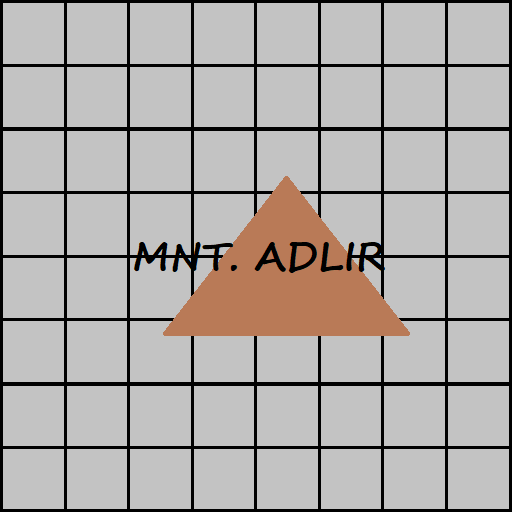
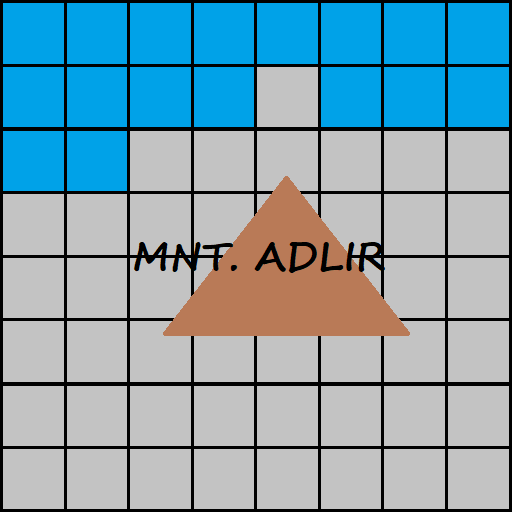
v3101231518

Changed region(s): [[0.0, 0.0, 1.0, 0.375]]

diff --git a/common.js b/common.js
@@ -7,74 +7,74 @@ var Loader = {
 };
 
 var map = {
-    cols: 35,
+    cols: 37,
     rows: 29,
     tsize: 512,
     csize: 256,
     csize_noscr: 100,
     layers: [[
-        //1              2                3                4                5                6                7                8                9                10                 11                 12                 13                 14                 15                 16                 17                 18                 19                 20                 21                 22                 23                 24                 25                26                27                     28                 29                 30			      31		      32				  33              34              35                                 
-        '0map',          '0map',          '0map',          '0map',          '0map',          '0map',          'm_murann_n',    '0map',          '0map',          '0map',            '0map',            '0map',            '0map',            '0map',            '0map',            '0map',            '0map',            '0map',            '0map',            '0map',            '0map',            '0map',            '0map',            '0map',            '0map',           '0map',           '0map',                '0map',            '0map',            '0map',            '0map',         '0map',             '0map',         '0map',         '0map',       
-        '0map',          '0map',          '0map',          '0map',          '0map',          '0map',          'm_murann_s',    'm_tethiroad1',  'm_tethiroad2',  'a_tethiroadw',    'a_trademeet',     '0map',            '0map',            '0map',            '0map',            '0map',            '0map',            '0map',            '0map',            '0map',            '0map',            '0map',            '0map',            '0map',            '0map',           '0map',           '0map',                '0map',            '0map',            '0map',            '0map',         '0map',             '0map',         '0map',         '0map',       
-        '0map',          '0map',          '0map',          '0map',          '0map',          '0wud',          '0wud',          '0map',          '0map',          '0map',            '0map',            '0map',            '0map',            '0map',            '0map',            '0map',            '0map',            '0map',            '0map',            '0map',            '0map',            '0map',            '0map',            '0map',            '0map',           '0map',           '0map',                '0map',            '0map',            '0map',            '0map',         '0map',             '0map',         '0map',         '0map',       
-        '0map',          '0map',          '0map',          '0map',          '0map',          '0wud',          '0wud',          '0wud',          '0wud',          '0wud',            '0wud',            '0wud',            '0wud',            '0wud',            '0map',            '0map',            '0map',            '0map',            '0map',            '0map',            '0map',            '0map',            '0map',            '0map',            '0map',           '0map',           '0map',                '0map',            '0map',            '0map',            '0map',         '0map',             '0map',         '0map',         '0map',       		
-        '0map',          '0map',          '0map',          '0map',          '0map',          't_toaketh',     't_viperstone',  't_rokorch',     '0wud',          '0wud',            '0wud',            '0wud',            '0wud',            '0wud',            '0wud',            '0wud',            '0map',            '0map',            '0map',            '0map',            '0map',            '0map',            '0map',            '0map',            '0map',           '0map',           '0map',                '0map',            '0map',            '0map',            '0map',         '0map',             '0map',         '0map',         '0map',       
-        '0map',          '0map',          '0map',          '0map',          '0map',          '0map',          '0map',          't_blktomb',     '0map',          '0wud',            't_trwaymos3',     '0wud',            '0wud',            '0wud',            '0wud',            '0wud',            '0wud',            't_brost',         '0map',            '0map',            '0map',            '0map',            '0map',            '0map',            '0map',           '0map',           '0map',                '0map',            '0map',            '0map',            't_trstone',    '0map',             '0map',         '0map',         '0map',       
-        '0map',          '0map',          '0map',          '0map',          '0map',          '0map',          '0map',          't_stdomin',     '0map',          '0map',            't_trwaymos2',     '0wud',            '0wud',            '0wud',            '0wud',            '0wud',            '0wud',            '0wud',            '0wud',            '0map',            '0map',            '0map',            '0map',            '0map',            '0map',           '0map',           '0map',                '0wud',            '0wud',            '0wud',            '0map',         '0map',             '0map',         '0map',         '0map',       
-        '0map',          '0map',          '0map',          '0map',          '0map',          '0map',          '0map',          't_fdrakerd2',   't_fdrakerd1',   't_mosstone',      't_trwaymos1',     '0wud',            '0wud',            '0wud',            't_mythrhynn',     '0wud',            '0wud',            '0wud',            '0wud',            '0wud',            '0wud',            '0map',            '0map',            '0wud',            '0wud',           '0wud',           '0wud',                '0wud',            't_eldgate',       '0wud',            '0map',         '0map',             '0map',         '0map',         '0map',       
-        '0map',          '0map',          '0map',          '0map',          '0map',          '0map',          't_trwaykir2',   't_kirgard',     't_trwaykir3',   't_trwaykir4',     't_archdrugro',    't_oldoakdel',     't_talltrees',     '0wud',            '0wud',            '0wud',            '0wud',            '0wud',            '0wud',            '0wud',            '0wud',            '0wud',            '0wud',            '0wud',            '0wud',           't_nebupool',     '0wud',                '0wud',            '0wud',            '0wud',            '0map',         '0map',             '0map',         '0map',         '0map',       
-        't_adlir',       '0mnt',          '0mnt',          '0mnt',          '0map',          't_portkir',     't_trwaykir1',   '0map',          '0map',          '0map',            '0wud',            '0wud',            '0wud',            '0wud',            '0wud',            '0wud',            '0wud',            '0wud',            '0wud',            '0wud',            '0wud',            '0wud',            '0wud',            '0wud',            '0wud',           't_suldaness',    '0wud',                '0wud',            '0wud',            '0wud',            '0wud',         '0map',             '0map',         '0map',         '0map',       
-        '0mnt',          '0mnt',          't_ramedar',     't_bormuln5',    '0mnt',          '0mnt',          't_trwayzaz3',   '0mnt',          't_grimjaws',    '0mnt',            '0mnt',            't_cayrthal',      '0wud',            't_kalmin',        '0wud',            't_hawkrook4',     '0mnt',            '0mnt',            '0wud',            '0wud',            '0wud',            '0wud',            '0mnt',            't_argentwing',    '0wud',           '0wud',           '0wud',                't_8tree',         '0wud',            't_moongld',       '0wud',         '0map',             '0map',         '0map',         '0map',       
-        '0map',          '0map',          't_bormuln4',    't_bormuln3',    't_battlesend',  '0mnt',          't_trwayzaz2',   '0mnt',          '0mnt',          '0mnt',            '0mnt',            't_memory',        '0mnt',            '0mnt',            '0mnt',            't_tresper',       '0mnt',            '0mnt',            '0mnt',            '0mnt',            '0mnt',            '0mnt',            '0mnt',            '0mnt',            't_targyll',      '0mnt',           '0wud',                '0wud',            '0wud',            '0wud',            '0map',         '0map',             '0map',         '0map',         '0map',       		
-        '0map',          '0map',          '0map',          '0map',          't_bormuln2',    't_bormuln1',    't_trwayzaz1',   '0map',          '0map',          '0map',            '0mnt',            '0mnt',            '0mnt',            '0mnt',            't_uluran',        't_hawkrook3',     '0mnt',            '0mnt',            '0mnt',            '0mnt',            '0mnt',            '0mnt',            '0mnt',            '0mnt',            '0mnt',           '0grs',           '0grs',                't_varyth_torf_w', 't_varyth_tor',    't_varyth_torf_e', '0map',         '0map',             '0map',         '0map',         '0map',       
-        '0map',          '0map',          '0map',          '0map',          '0map',          't_zazesspur_nw','t_zazesspur_ne','0map',          '0map',          '0map',            '0map',            '0map',            '0map',            '0map',            't_hawkrook2',     '0map',            '0mnt',            '0mnt',            '0mnt',            '0mnt',            '0map',            '0map',            '0map',            't_lhestyn_quay',  't_masamont_road','t_masamount',    't_masamount_wudn',    't_varyth_torf_sw','t_varyth_torf_s', 't_varyth_torf_se','0map',         '0map',             '0map',         '0map',         '0map',       
-        '0map',          '0map',          '0map',          '0map',          '0map',          't_zazesspur_sw','t_zazesspur_se','t_venezir_ne'  ,'t_marakir',     '0map',            '0map',            't_tethyrcast_nw', 't_tethyrcast_n',  't_tethyrcast_ne', 't_hawkrook1',     '0map',            'IthmonSulW',      't_hostim_quay',   't_ithmn_sul_e',   't_ithmn_sul_e1',  't_ithmn_sul_e2',  't_grannox',       't_grannox_farms', 't_lhestynheart',  't_freelm_farms', 't_freelmanse',   't_masamount_wuds',    't_varyth_plain_w','t_varyth_plain_c','t_varyth_plain_e','0IthalRoadWE', '0IthalRoadWES',    '0IthalRoadWE', '0IthalRoadWS', '0map',       
-        '0map',          '0map',          '0map',          '0map',          '0map',          't_venezir_sw',  't_venezir_s',   't_venezir_se'  ,'SulZaz3',       'SulZaz4',         'SulZaz5',         't_tethyrcast_w',  't_tethyrcast',    't_tethyrcast_e',  't_alemwood_nw',   't_alemwood_ne',   't_hostim_hill_nw','t_hostim',        't_hostim_wood',   't_ithmon_crag_nw','t_ithmon_crag_ne','t_lhest_gorge',   't_lhest_farm_sw', 't_lhest_farm_s',  't_lhest_farm_se','t_rivshrehill_n','t_rivshrehill_ne',    't_varyth_hill_nw','t_varyth_hill_n', 't_varyth_hill_ne','0map',         't_iltarghal',      '0map',         't_survale',    '0map',       
-        '0map',          '0map',          '0map',          '0map',          't_faithful',    't_hilltr1',     't_hilltr2',     't_vintor_okr_1','t_vintor_okr_2','t_vintor_okr_3',  't_bardshyr_okr',  't_tethyrcast_sw', 't_tethyrcast_s',  't_tethyrcast_se', 't_alemwood_sw',   't_bardshyr_alem', 't_hostim_hill_w', 't_hostim_road',   't_hostim_hill_e', 't_ithmon_crag_sw','t_ithmon_crag_se','t_qonsir',        't_qonsir_farm',   't_lhest_road',    't_rivshrehill_w','t_rivshrehill_c','t_st_ostus',          't_varyth_hill_sw','t_varyth_hill_s', 't_varyth_hill_se','0map',         '0map',             '0map',         '0IthalRoadNS', '0map',       
-        '0map',          '0map',          '0map',          '0map',          't_bormuls',     't_purhilla1',   't_canaith',     't_purhillb1',   't_purhillc1',   't_purhilld1',     't_sahark_crossrd','t_saharkhan',     't_bardshy_itr_1', 't_bardshy_itr_2', 't_bardshy_itr_3', 't_bardshy_itr_4', 't_ithmon_ithr_w1','t_ithmon_ithr_w2','t_ithmon_lorcros','t_ithmon_ithr_e1','t_ithmon_ithr_e2','t_rvrshr_ithrdw', 't_crownfarms_nw', 't_crownfarms_n',  't_crownfarms_ne','t_rivshrehill_s','t_rivshrehill_se',    '0map',            '0map',            't_thrynnar_hold', '0IthalRoadWE', '0IthalRoadWE',     '0IthalRoadWE', '0IthalRoadNWS','0map',       
-        '0map',          '0map',          '0map',          '0map',          't_ithalyr',     't_purhilla2',   't_hilltr3',     't_purhillb2',   't_purhillc2',   't_purhilld2',     't_soldieroad_1',  't_saharkhan_sp',  't_sevenstar_rd',  't_sevenstar_hne', 't_brinniqdell_n', 't_brinniqwood_n', 't_ithmon_pipe_n', 't_ithmon_farm_nw','t_ithmon_farm_n', 't_ithmon_farm_ne','t_loransewood_n', 't_crownfarms_iw2','t_crownfarms_iw1','t_darromar',      't_foyen_rd',     't_foyen',        '0map',                '0map',            '0map',            '0IthalRoadNS',    '0map',         '0map',             '0map',         '0IthalRoadEN', 't_veaddakar',       
-        '0map',          '0map',          '0map',          '0map',          't_purclif5',    't_purhilla3',   't_barrows',     't_samytew',     't_dasaajk',     't_samytee',       't_soldieroad_2',  't_jongrathroad11','t_sevenstar',     't_sevenstar_hse', 't_brinniqdell_s', 't_brinniqwood',   't_ithmon_pipe_s', 't_ithmon_farm_w', 't_ithmon_loranse','t_ithmon_farm_e', 't_loransewood_s', '0map',            't_clov_fld_nw',   't_clov_fld_itr_n','0map',           '0map',           '0map',                '0IthalRoadES',    '0IthalRoadWE',    '0IthalRoadWN',    '0map',         '0map',             '0map',         '0map',         '0map',       
-        '0map',          '0map',          '0map',          '0map',          't_rhynda',      't_rhynda_rd',   't_hilltr4',     't_purhillb3',   't_purhillc3',   't_purhilld3',     't_krennasar',     't_jongrathroad01','t_jongrathroad02','t_jongrath',      't_jongrathroad03','t_brinniqwood_s', 't_loranse_swamp', '0map',            '0map',            '0map',            '0map',            't_ruba',          '0IthalRoadWE',    't_clov_fld_itr_s','0IthalRoadWES',  '0IthalRoadWE',   '0IthalRoadWE',        '0IthalRoadNWS',   '0map',            '0map',            '0map',         '0map',             '0map',         '0map',         '0map',       
-        '0map',          '0map',          '0map',          '0map',          't_purclif4',    't_purhilla4',   't_vineshade',   't_purhillb4',   't_redmills',    't_elem_solroad01','t_elem_solroa002','t_elem_farm1',    't_elem_farm2',    't_elem_farm3',    't_elem_farm4',    't_riverith7',     't_riverith8',     '0map',            '0map',            '0map',            '0map',            '0IthalRoadNS',    '0map',            '0map',            't_abbor',        '0map',           '0map',                '0IthalRoadNES',   '0IthalRoadWE',    '0IthalRoadWE',    '0IthalRoadWE', '0IthalRoadWS',     '0map',         '0map',         '0map',       
-        '0map',          '0map',          '0map',          '0map',          't_purclif3',    't_purhilla5',   't_hilltr5',     't_purhillb5',   't_refields_n',  't_refields_ne',   't_riverith1',     't_riverith2',     't_riverith3',     't_riverith4',     't_riverith5',     't_riverith6',     '0map',            '0map',            '0map',            't_pelmarin',      '0IthalRoadWE',    '0IthalRoadWN',    '0map',            '0map',            '0map',           '0map',           '0map',                't_mistletoe',     '0map',            '0map',            '0map',         '0IthalRoadNES',    '0IthalRoadWE', '0IthalRoadWES','t_barakmordin',       
-        '0map',          '0map',          '0map',          '0map',          't_purclif2',    't_purclif1',    't_ith_est',     't_myratma_w',   't_myratma_e',   't_refields_e',    '0IthalRoadWE',    '0IthalRoadWE',    't_maratimmir',    '0IthalRoadWE',    '0IthalRoadWE',    '0IthalRoadWES',   '0IthalRoadWE',    '0IthalRoadWE',    '0IthalRoadWE',    '0IthalRoadWN',    '0map',            '0map',            '0map',            '0map',            '0map',           '0map',           '0map',                '0map',            '0map',            '0wud',            '0wud',         '0IthalRoadNS',     '0map',         '0IthalRoadNS', '0map',       
-        '0map',          '0map',          '0map',          '0map',          '0map',          '0map',          't_trwaycal3',   't_trwaycal2',   't_trwaycal1',   '0map',            '0map',            '0map',            '0map',            '0map',            '0map',            '0IthalRoadNS',    '0map',            '0map',            '0map',            '0map',            '0map',            '0map',            '0map',            '0map',            '0map',           '0map',           '0map',                '0map',            '0map',            '0wud',            't_magis_tor',  '0IthalRoadWN',     '0map',         '0IthalRoadNS', '0map',       
-        '0map',          '0map',          '0map',          '0map',          '0map',          '0map',          't_trwaycal4',   '0map',          '0map',          '0map',            '0map',            '0map',            '0map',            '0map',            '0map',            't_fort_teqlar',   't_shoonfedw',     't_shoonach_ilt',  't_shoonach_run',  't_shoonach_deb',  '0map',            '0map',            '0map',            '0map',            '0map',           '0map',           '0map',                '0map',            '0map',            '0wud',            '0wud',         '0wud',             '0map',         't_adarthir',   '0map',
-        '0map',          '0map',          '0map',          '0map',          '0map',          't_daraqadim',   't_trwaycal5',   '0map',          '0map',          '0map',            '0map',            '0map',            '0map',            '0map',            't_agisroad7',     't_shoonach_gaw',  't_shoonach_mum',  't_shoonach_imp',  't_shoonfede',     't_shoonach_gae',  '0map',            '0map',            '0map',            '0map',            '0map',           '0map',           '0map',                '0map',            '0map',            '0map',            '0map',         '0map',             '0map',         '0map',         '0map',
-        '0map',          '0map',          'c_memmonw',     'c_memmone',     't_memmonnar',   't_trwaycal6',   't_agisroad1',   't_agisroad2',   't_fortagis',    't_agisroad3',     't_agisroad4',     't_agisroad5',     't_iltakargarr',   't_agisroad6',     't_fortcalim',     'c_agisshoo1',     'c_agisshoo2',     't_shoonach_agi',  'c_agisshoo3',     'c_agisshoo4',     'c_agisshoo5',     '0map',            '0map',            '0map',            '0map',           '0map',           '0map',                '0map',            '0map',            '0map',            '0map',         '0map',             '0map',         '0map',         '0map',		
-        '0map',          '0map',          '0map',          '0map',          '0map',          '0map',          '0map',          '0map',          '0map',          '0map',            't_fortufenk',     '0map',            '0map',            '0map',            '0map',            '0map',            '0map',            '0map',            '0map',            '0map',            'c_agisshoo6',     't_qian',          '0map',            '0map',            '0map',           '0map',           '0map',                '0map',            '0map',            '0map',            '0map',         '0map',             '0map',         '0map',         '0map'                        
+        //1              2                3                4                5                6                7                8                9                10                 11               12                 13                 14                 15                 16                 17                 18                 19                 20                 21                 22                 23                 24                 25                 26                 27                28                29                     30			        31		           32				  33              34                  35              36              37
+        '0map',          '0map',          '0map',          '0map',          '0map',          '0map',          '0map',          '0map',          'm_murann_n',    '0map',            '0map',          '0map',            '0map',            '0map',            '0map',            '0map',            '0map',            '0map',            '0map',            '0map',            '0map',            '0map',            '0map',            '0map',            '0map',            '0map',            '0map',           '0map',           '0map',                '0map',            '0map',            '0map',            '0map',         '0map',             '0map',         '0map',         '0map',       
+        '0map',          '0map',          '0map',          '0map',          '0map',          '0map',          '0map',          '0map',          'm_murann_s',    'm_tethiroad1',    'm_tethiroad2',  'a_tethiroadw',    'a_trademeet',     '0map',            '0map',            '0map',            '0map',            '0map',            '0map',            '0map',            '0map',            '0map',            '0map',            '0map',            '0map',            '0map',            '0map',           '0map',           '0map',                '0map',            '0map',            '0map',            '0map',         '0map',             '0map',         '0map',         '0map',       
+        '0map',          '0map',          '0map',          '0map',          '0map',          '0map',          '0map',          '0wud',          '0wud',          '0map',            '0map',          '0map',            '0map',            '0map',            '0map',            '0map',            '0map',            '0map',            '0map',            '0map',            '0map',            '0map',            '0map',            '0map',            '0map',            '0map',            '0map',           '0map',           '0map',                '0map',            '0map',            '0map',            '0map',         '0map',             '0map',         '0map',         '0map',       
+        '0map',          '0map',          '0map',          '0map',          '0map',          '0map',          '0map',          '0wud',          '0wud',          '0wud',            '0wud',          '0wud',            '0wud',            '0wud',            '0wud',            '0wud',            '0map',            '0map',            '0map',            '0map',            '0map',            '0map',            '0map',            '0map',            '0map',            '0map',            '0map',           '0map',           '0map',                '0map',            '0map',            '0map',            '0map',         '0map',             '0map',         '0map',         '0map',       		
+        '0map',          '0map',          '0map',          '0map',          '0map',          '0map',          '0map',          't_toaketh',     't_viperstone',  't_rokorch',       '0wud',          '0wud',            '0wud',            '0wud',            '0wud',            '0wud',            '0wud',            '0wud',            '0map',            '0map',            '0map',            '0map',            '0map',            '0map',            '0map',            '0map',            '0map',           '0map',           '0map',                '0map',            '0map',            '0map',            '0map',         '0map',             '0map',         '0map',         '0map',       
+        '0map',          '0map',          '0map',          '0map',          '0map',          '0map',          '0map',          '0map',          '0map',          't_blktomb',       '0map',          '0wud',            't_trwaymos3',     '0wud',            '0wud',            '0wud',            '0wud',            '0wud',            '0wud',            't_brost',         '0map',            '0map',            '0map',            '0map',            '0map',            '0map',            '0map',           '0map',           '0map',                '0map',            '0map',            '0map',            't_trstone',    '0map',             '0map',         '0map',         '0map',       
+        '0map',          '0map',          '0map',          '0map',          '0map',          '0map',          '0map',          '0map',          '0map',          't_stdomin',       '0map',          '0map',            't_trwaymos2',     '0wud',            '0wud',            '0wud',            '0wud',            '0wud',            '0wud',            '0wud',            '0wud',            '0map',            '0map',            '0map',            '0map',            '0map',            '0map',           '0map',           '0map',                '0wud',            '0wud',            '0wud',            '0map',         '0map',             '0map',         '0map',         '0map',       
+        '0map',          '0map',          '0map',          '0map',          '0map',          '0map',          '0map',          '0map',          '0map',          't_fdrakerd2',     't_fdrakerd1',   't_mosstone',      't_trwaymos1',     '0wud',            '0wud',            '0wud',            't_mythrhynn',     '0wud',            '0wud',            '0wud',            '0wud',            '0wud',            '0wud',            '0map',            '0map',            '0wud',            '0wud',           '0wud',           '0wud',                '0wud',            't_eldgate',       '0wud',            '0map',         '0map',             '0map',         '0map',         '0map',       
+        '0map',          '0map',          '0map',          '0map',          '0map',          '0map',          '0map',          '0map',          't_trwaykir2',   't_kirgard',       't_trwaykir3',   't_trwaykir4',     't_archdrugro',    't_oldoakdel',     't_talltrees',     '0wud',            '0wud',            '0wud',            '0wud',            '0wud',            '0wud',            '0wud',            '0wud',            '0wud',            '0wud',            '0wud',            '0wud',           't_nebupool',     '0wud',                '0wud',            '0wud',            '0wud',            '0map',         '0map',             '0map',         '0map',         '0map',       
+        't_stspmntn1',   't_stspmntn2',   't_adlir',       't_stspmntn3',   't_stspmntn4',   't_stspmntn5',   't_stspmntn6',   't_portkir',     't_trwaykir1',   '0map',            '0map',          '0map',            '0wud',            '0wud',            '0wud',            '0wud',            '0wud',            '0wud',            '0wud',            '0wud',            '0wud',            '0wud',            '0wud',            '0wud',            '0wud',            '0wud',            '0wud',           't_suldaness',    '0wud',                '0wud',            '0wud',            '0wud',            '0wud',         '0map',             '0map',         '0map',         '0map',       
+        't_stspmnts1',   't_stspmnts2',   't_stspmnts3',   't_stspmnts4',   't_ramedar',     't_bormuln5',    '0mnt',          '0mnt',          't_trwayzaz3',   '0mnt',            't_grimjaws',    '0mnt',            '0mnt',            't_cayrthal',      '0wud',            't_kalmin',        '0wud',            't_hawkrook4',     '0mnt',            '0mnt',            '0wud',            '0wud',            '0wud',            '0wud',            '0mnt',            't_argentwing',    '0wud',           '0wud',           '0wud',                't_8tree',         '0wud',            't_moongld',       '0wud',         '0map',             '0map',         '0map',         '0map',       
+        '0map',          '0map',          '0map',          '0map',          't_bormuln4',    't_bormuln3',    't_battlesend',  '0mnt',          't_trwayzaz2',   '0mnt',            '0mnt',          '0mnt',            '0mnt',            't_memory',        '0mnt',            '0mnt',            '0mnt',            't_tresper',       '0mnt',            '0mnt',            '0mnt',            '0mnt',            '0mnt',            '0mnt',            '0mnt',            '0mnt',            't_targyll',      '0mnt',           '0wud',                '0wud',            '0wud',            '0wud',            '0map',         '0map',             '0map',         '0map',         '0map',       		
+        '0map',          '0map',          '0map',          '0map',          '0map',          '0map',          't_bormuln2',    't_bormuln1',    't_trwayzaz1',   '0map',            '0map',          '0map',            '0mnt',            '0mnt',            '0mnt',            '0mnt',            't_uluran',        't_hawkrook3',     '0mnt',            '0mnt',            '0mnt',            '0mnt',            '0mnt',            '0mnt',            '0mnt',            '0mnt',            '0mnt',           '0grs',           '0grs',                't_varyth_torf_w', 't_varyth_tor',    't_varyth_torf_e', '0map',         '0map',             '0map',         '0map',         '0map',       
+        '0map',          '0map',          '0map',          '0map',          '0map',          '0map',          '0map',          't_zazesspur_nw','t_zazesspur_ne','0map',            '0map',          '0map',            '0map',            '0map',            '0map',            '0map',            't_hawkrook2',     '0map',            '0mnt',            '0mnt',            '0mnt',            '0mnt',            '0map',            '0map',            '0map',            't_lhestyn_quay',  't_masamont_road','t_masamount',    't_masamount_wudn',    't_varyth_torf_sw','t_varyth_torf_s', 't_varyth_torf_se','0map',         '0map',             '0map',         '0map',         '0map',       
+        '0map',          '0map',          '0map',          '0map',          '0map',          '0map',          '0map',          't_zazesspur_sw','t_zazesspur_se','t_venezir_ne'  ,  't_marakir',     '0map',            '0map',            't_tethyrcast_nw', 't_tethyrcast_n',  't_tethyrcast_ne', 't_hawkrook1',     '0map',            'IthmonSulW',      't_hostim_quay',   't_ithmn_sul_e',   't_ithmn_sul_e1',  't_ithmn_sul_e2',  't_grannox',       't_grannox_farms', 't_lhestynheart',  't_freelm_farms', 't_freelmanse',   't_masamount_wuds',    't_varyth_plain_w','t_varyth_plain_c','t_varyth_plain_e','0IthalRoadWE', '0IthalRoadWES',    '0IthalRoadWE', '0IthalRoadWS', '0map',       
+        '0map',          '0map',          '0map',          '0map',          '0map',          '0map',          '0map',          't_venezir_sw',  't_venezir_s',   't_venezir_se'  ,  'SulZaz3',       'SulZaz4',         'SulZaz5',         't_tethyrcast_w',  't_tethyrcast',    't_tethyrcast_e',  't_alemwood_nw',   't_alemwood_ne',   't_hostim_hill_nw','t_hostim',        't_hostim_wood',   't_ithmon_crag_nw','t_ithmon_crag_ne','t_lhest_gorge',   't_lhest_farm_sw', 't_lhest_farm_s',  't_lhest_farm_se','t_rivshrehill_n','t_rivshrehill_ne',    't_varyth_hill_nw','t_varyth_hill_n', 't_varyth_hill_ne','0map',         't_iltarghal',      '0map',         't_survale',    '0map',       
+        '0map',          '0map',          '0map',          '0map',          '0map',          '0map',          't_faithful',    't_hilltr1',     't_hilltr2',     't_vintor_okr_1',  't_vintor_okr_2','t_vintor_okr_3',  't_bardshyr_okr',  't_tethyrcast_sw', 't_tethyrcast_s',  't_tethyrcast_se', 't_alemwood_sw',   't_bardshyr_alem', 't_hostim_hill_w', 't_hostim_road',   't_hostim_hill_e', 't_ithmon_crag_sw','t_ithmon_crag_se','t_qonsir',        't_qonsir_farm',   't_lhest_road',    't_rivshrehill_w','t_rivshrehill_c','t_st_ostus',          't_varyth_hill_sw','t_varyth_hill_s', 't_varyth_hill_se','0map',         '0map',             '0map',         '0IthalRoadNS', '0map',       
+        '0map',          '0map',          '0map',          '0map',          '0map',          '0map',          't_bormuls',     't_purhilla1',   't_canaith',     't_purhillb1',     't_purhillc1',   't_purhilld1',     't_sahark_crossrd','t_saharkhan',     't_bardshy_itr_1', 't_bardshy_itr_2', 't_bardshy_itr_3', 't_bardshy_itr_4', 't_ithmon_ithr_w1','t_ithmon_ithr_w2','t_ithmon_lorcros','t_ithmon_ithr_e1','t_ithmon_ithr_e2','t_rvrshr_ithrdw', 't_crownfarms_nw', 't_crownfarms_n',  't_crownfarms_ne','t_rivshrehill_s','t_rivshrehill_se',    '0map',            '0map',            't_thrynnar_hold', '0IthalRoadWE', '0IthalRoadWE',     '0IthalRoadWE', '0IthalRoadNWS','0map',       
+        '0map',          '0map',          '0map',          '0map',          '0map',          '0map',          't_ithalyr',     't_purhilla2',   't_hilltr3',     't_purhillb2',     't_purhillc2',   't_purhilld2',     't_soldieroad_1',  't_saharkhan_sp',  't_sevenstar_rd',  't_sevenstar_hne', 't_brinniqdell_n', 't_brinniqwood_n', 't_ithmon_pipe_n', 't_ithmon_farm_nw','t_ithmon_farm_n', 't_ithmon_farm_ne','t_loransewood_n', 't_crownfarms_iw2','t_crownfarms_iw1','t_darromar',      't_foyen_rd',     't_foyen',        '0map',                '0map',            '0map',            '0IthalRoadNS',    '0map',         '0map',             '0map',         '0IthalRoadEN', 't_veaddakar',       
+        '0map',          '0map',          '0map',          '0map',          '0map',          '0map',          't_purclif5',    't_purhilla3',   't_barrows',     't_samytew',       't_dasaajk',     't_samytee',       't_soldieroad_2',  't_jongrathroad11','t_sevenstar',     't_sevenstar_hse', 't_brinniqdell_s', 't_brinniqwood',   't_ithmon_pipe_s', 't_ithmon_farm_w', 't_ithmon_loranse','t_ithmon_farm_e', 't_loransewood_s', '0map',            't_clov_fld_nw',   't_clov_fld_itr_n','0map',           '0map',           '0map',                '0IthalRoadES',    '0IthalRoadWE',    '0IthalRoadWN',    '0map',         '0map',             '0map',         '0map',         '0map',       
+        '0map',          '0map',          '0map',          '0map',          '0map',          '0map',          't_rhynda',      't_rhynda_rd',   't_hilltr4',     't_purhillb3',     't_purhillc3',   't_purhilld3',     't_krennasar',     't_jongrathroad01','t_jongrathroad02','t_jongrath',      't_jongrathroad03','t_brinniqwood_s', 't_loranse_swamp', '0map',            '0map',            '0map',            '0map',            't_ruba',          '0IthalRoadWE',    't_clov_fld_itr_s','0IthalRoadWES',  '0IthalRoadWE',   '0IthalRoadWE',        '0IthalRoadNWS',   '0map',            '0map',            '0map',         '0map',             '0map',         '0map',         '0map',       
+        '0map',          '0map',          '0map',          '0map',          '0map',          '0map',          't_purclif4',    't_purhilla4',   't_vineshade',   't_purhillb4',     't_redmills',    't_elem_solroad01','t_elem_solroa002','t_elem_farm1',    't_elem_farm2',    't_elem_farm3',    't_elem_farm4',    't_riverith7',     't_riverith8',     '0map',            '0map',            '0map',            '0map',            '0IthalRoadNS',    '0map',            '0map',            't_abbor',        '0map',           '0map',                '0IthalRoadNES',   '0IthalRoadWE',    '0IthalRoadWE',    '0IthalRoadWE', '0IthalRoadWS',     '0map',         '0map',         '0map',       
+        '0map',          '0map',          '0map',          '0map',          '0map',          '0map',          't_purclif3',    't_purhilla5',   't_hilltr5',     't_purhillb5',     't_refields_n',  't_refields_ne',   't_riverith1',     't_riverith2',     't_riverith3',     't_riverith4',     't_riverith5',     't_riverith6',     '0map',            '0map',            '0map',            't_pelmarin',      '0IthalRoadWE',    '0IthalRoadWN',    '0map',            '0map',            '0map',           '0map',           '0map',                't_mistletoe',     '0map',            '0map',            '0map',         '0IthalRoadNES',    '0IthalRoadWE', '0IthalRoadWES','t_barakmordin',       
+        '0map',          '0map',          '0map',          '0map',          '0map',          '0map',          't_purclif2',    't_purclif1',    't_ith_est',     't_myratma_w',     't_myratma_e',   't_refields_e',    '0IthalRoadWE',    '0IthalRoadWE',    't_maratimmir',    '0IthalRoadWE',    '0IthalRoadWE',    '0IthalRoadWES',   '0IthalRoadWE',    '0IthalRoadWE',    '0IthalRoadWE',    '0IthalRoadWN',    '0map',            '0map',            '0map',            '0map',            '0map',           '0map',           '0map',                '0map',            '0map',            '0wud',            '0wud',         '0IthalRoadNS',     '0map',         '0IthalRoadNS', '0map',       
+        '0map',          '0map',          '0map',          '0map',          '0map',          '0map',          '0map',          '0map',          't_trwaycal3',   't_trwaycal2',     't_trwaycal1',   '0map',            '0map',            '0map',            '0map',            '0map',            '0map',            '0IthalRoadNS',    '0map',            '0map',            '0map',            '0map',            '0map',            '0map',            '0map',            '0map',            '0map',           '0map',           '0map',                '0map',            '0map',            '0wud',            't_magis_tor',  '0IthalRoadWN',     '0map',         '0IthalRoadNS', '0map',       
+        '0map',          '0map',          '0map',          '0map',          '0map',          '0map',          '0map',          '0map',          't_trwaycal4',   '0map',            '0map',          '0map',            '0map',            '0map',            '0map',            '0map',            '0map',            't_fort_teqlar',   't_shoonfedw',     't_shoonach_ilt',  't_shoonach_run',  't_shoonach_deb',  '0map',            '0map',            '0map',            '0map',            '0map',           '0map',           '0map',                '0map',            '0map',            '0wud',            '0wud',         '0wud',             '0map',         't_adarthir',   '0map',
+        '0map',          '0map',          '0map',          '0map',          '0map',          '0map',          '0map',          't_daraqadim',   't_trwaycal5',   '0map',            '0map',          '0map',            '0map',            '0map',            '0map',            '0map',            't_agisroad7',     't_shoonach_gaw',  't_shoonach_mum',  't_shoonach_imp',  't_shoonfede',     't_shoonach_gae',  '0map',            '0map',            '0map',            '0map',            '0map',           '0map',           '0map',                '0map',            '0map',            '0map',            '0map',         '0map',             '0map',         '0map',         '0map',
+        '0map',          '0map',          '0map',          '0map',          'c_memmonw',     'c_memmone',     't_memmonnar',   't_trwaycal6',   't_agisroad1',   't_agisroad2',     't_fortagis',    't_agisroad3',     't_agisroad4',     't_agisroad5',     't_iltakargarr',   't_agisroad6',     't_fortcalim',     'c_agisshoo1',     'c_agisshoo2',     't_shoonach_agi',  'c_agisshoo3',     'c_agisshoo4',     'c_agisshoo5',     '0map',            '0map',            '0map',            '0map',           '0map',           '0map',                '0map',            '0map',            '0map',            '0map',         '0map',             '0map',         '0map',         '0map',		
+        '0map',          '0map',          '0map',          '0map',          '0map',          '0map',          '0map',          '0map',          '0map',          '0map',            '0map',          '0map',            't_fortufenk',     '0map',            '0map',            '0map',            '0map',            '0map',            '0map',            '0map',            '0map',            '0map',            'c_agisshoo6',     't_qian',          '0map',            '0map',            '0map',           '0map',           '0map',                '0map',            '0map',            '0map',            '0map',         '0map',             '0map',         '0map',         '0map'                        
     ], [
       //                  10                  20                  30
-      //1 2 3 4 5 6 7 8 9   1 2 3 4 5 6 7 8 9   1 2 3 4 5 6 7 8 9   1 2 3 4 5
-        0,0,0,0,0,0,0,0,0,0,0,0,0,0,0,0,0,0,0,0,0,0,0,0,0,0,0,0,0,0,0,0,0,0,0,
-        0,0,0,0,0,0,0,0,0,0,0,0,0,0,0,0,0,0,0,0,0,0,0,0,0,0,0,0,0,0,0,0,0,0,0,
-        0,0,0,0,0,0,0,0,0,0,0,0,0,0,0,0,0,0,0,0,0,0,0,0,0,0,0,0,0,0,0,0,0,0,0,		
-		0,0,0,0,0,0,0,0,0,0,0,0,0,0,0,0,0,0,0,0,0,0,0,0,0,0,0,0,0,0,0,0,0,0,0,		
-		0,0,0,0,0,0,0,0,0,0,0,0,0,0,0,0,0,0,0,0,0,0,0,0,0,0,0,0,0,0,0,0,0,0,0,
-        0,0,0,0,0,0,0,0,0,0,0,0,0,0,0,0,0,0,0,0,0,0,0,0,0,0,0,0,0,0,0,0,0,0,0,		
-        0,0,0,0,0,0,0,0,0,0,0,0,0,0,0,0,0,0,0,0,0,0,0,0,0,0,0,0,0,0,0,0,0,0,0,
-        0,0,0,0,0,0,0,0,0,0,0,0,0,0,0,0,0,0,0,0,0,0,0,0,0,0,0,0,0,0,0,0,0,0,0,
-        0,0,0,0,0,0,0,0,0,0,0,0,0,0,0,0,0,0,0,0,0,0,0,0,0,0,0,0,0,0,0,0,0,0,0,
-        0,0,0,0,0,0,0,0,0,0,0,0,0,0,0,0,0,0,0,0,0,0,0,0,0,0,0,0,0,0,0,0,0,0,0,
-        0,0,0,0,0,0,0,0,0,0,0,0,0,0,0,0,0,0,0,0,0,0,0,0,0,0,0,0,0,0,0,0,0,0,0,
-        0,0,0,0,0,0,0,0,0,0,0,0,0,0,0,0,0,0,0,0,0,0,0,0,0,0,0,0,0,0,0,0,0,0,0,
-        0,0,0,0,0,0,0,0,0,0,0,0,0,0,0,0,0,0,0,0,0,0,0,0,0,0,0,0,0,0,0,0,0,0,0,
-        0,0,0,0,0,0,0,0,0,0,0,0,0,0,0,0,0,0,0,0,0,0,0,0,0,0,0,0,0,0,0,0,0,0,0,
-        0,0,0,0,0,0,0,0,0,0,0,0,0,0,0,0,0,0,0,0,0,0,0,0,0,0,0,0,0,0,0,0,0,0,0,
-        0,0,0,0,0,0,0,0,0,0,0,0,0,0,0,0,0,0,0,0,0,0,0,0,0,0,0,0,0,0,0,0,0,0,0,
-        0,0,0,0,0,0,0,0,0,0,0,0,0,0,0,0,0,0,0,0,0,0,0,0,0,0,0,0,0,0,0,0,0,0,0,
-        0,0,0,0,0,0,0,0,0,0,0,0,0,0,0,0,0,0,0,0,0,0,0,0,0,0,0,0,0,0,0,0,0,0,0,
-        0,0,0,0,0,0,0,0,0,0,0,0,0,0,0,0,0,0,0,0,0,0,0,0,0,0,0,0,0,0,0,0,0,0,0,
-        0,0,0,0,0,0,0,0,0,0,0,0,0,0,0,0,0,0,0,0,0,0,0,0,0,0,0,0,0,0,0,0,0,0,0,
-        0,0,0,0,0,0,0,0,0,0,0,0,0,0,0,0,0,0,0,0,0,0,0,0,0,0,0,0,0,0,0,0,0,0,0,
-		0,0,0,0,0,0,0,0,0,0,0,0,0,0,0,0,0,0,0,0,0,0,0,0,0,0,0,0,0,0,0,0,0,0,0,
-        0,0,0,0,0,0,0,0,0,0,0,0,0,0,0,0,0,0,0,0,0,0,0,0,0,0,0,0,0,0,0,0,0,0,0,
-        0,0,0,0,0,0,0,0,0,0,0,0,0,0,0,0,0,0,0,0,0,0,0,0,0,0,0,0,0,0,0,0,0,0,0,
-        0,0,0,0,0,0,0,0,0,0,0,0,0,0,0,0,0,0,0,0,0,0,0,0,0,0,0,0,0,0,0,0,0,0,0,
-        0,0,0,0,0,0,0,0,0,0,0,0,0,0,0,0,0,0,0,0,0,0,0,0,0,0,0,0,0,0,0,0,0,0,0,
-        0,0,0,0,0,0,0,0,0,0,0,0,0,0,0,0,0,0,0,0,0,0,0,0,0,0,0,0,0,0,0,0,0,0,0,
-        0,0,0,0,0,0,0,0,0,0,0,0,0,0,0,0,0,0,0,0,0,0,0,0,0,0,0,0,0,0,0,0,0,0,0,
-        0,0,0,0,0,0,0,0,0,0,0,0,0,0,0,0,0,0,0,0,0,0,0,0,0,0,0,0,0,0,0,0,0,0,0
+      //1 2 3 4 5 6 7 8 9   1 2 3 4 5 6 7 8 9   1 2 3 4 5 6 7 8 9   1 2 3 4 5 6 7
+        0,0,0,0,0,0,0,0,0,0,0,0,0,0,0,0,0,0,0,0,0,0,0,0,0,0,0,0,0,0,0,0,0,0,0,0,0,
+        0,0,0,0,0,0,0,0,0,0,0,0,0,0,0,0,0,0,0,0,0,0,0,0,0,0,0,0,0,0,0,0,0,0,0,0,0,
+        0,0,0,0,0,0,0,0,0,0,0,0,0,0,0,0,0,0,0,0,0,0,0,0,0,0,0,0,0,0,0,0,0,0,0,0,0,
+		0,0,0,0,0,0,0,0,0,0,0,0,0,0,0,0,0,0,0,0,0,0,0,0,0,0,0,0,0,0,0,0,0,0,0,0,0,
+		0,0,0,0,0,0,0,0,0,0,0,0,0,0,0,0,0,0,0,0,0,0,0,0,0,0,0,0,0,0,0,0,0,0,0,0,0,
+        0,0,0,0,0,0,0,0,0,0,0,0,0,0,0,0,0,0,0,0,0,0,0,0,0,0,0,0,0,0,0,0,0,0,0,0,0,
+        0,0,0,0,0,0,0,0,0,0,0,0,0,0,0,0,0,0,0,0,0,0,0,0,0,0,0,0,0,0,0,0,0,0,0,0,0,
+        0,0,0,0,0,0,0,0,0,0,0,0,0,0,0,0,0,0,0,0,0,0,0,0,0,0,0,0,0,0,0,0,0,0,0,0,0,
+        0,0,0,0,0,0,0,0,0,0,0,0,0,0,0,0,0,0,0,0,0,0,0,0,0,0,0,0,0,0,0,0,0,0,0,0,0,
+        0,0,0,0,0,0,0,0,0,0,0,0,0,0,0,0,0,0,0,0,0,0,0,0,0,0,0,0,0,0,0,0,0,0,0,0,0,
+        0,0,0,0,0,0,0,0,0,0,0,0,0,0,0,0,0,0,0,0,0,0,0,0,0,0,0,0,0,0,0,0,0,0,0,0,0,
+        0,0,0,0,0,0,0,0,0,0,0,0,0,0,0,0,0,0,0,0,0,0,0,0,0,0,0,0,0,0,0,0,0,0,0,0,0,
+        0,0,0,0,0,0,0,0,0,0,0,0,0,0,0,0,0,0,0,0,0,0,0,0,0,0,0,0,0,0,0,0,0,0,0,0,0,
+        0,0,0,0,0,0,0,0,0,0,0,0,0,0,0,0,0,0,0,0,0,0,0,0,0,0,0,0,0,0,0,0,0,0,0,0,0,
+        0,0,0,0,0,0,0,0,0,0,0,0,0,0,0,0,0,0,0,0,0,0,0,0,0,0,0,0,0,0,0,0,0,0,0,0,0,
+        0,0,0,0,0,0,0,0,0,0,0,0,0,0,0,0,0,0,0,0,0,0,0,0,0,0,0,0,0,0,0,0,0,0,0,0,0,
+        0,0,0,0,0,0,0,0,0,0,0,0,0,0,0,0,0,0,0,0,0,0,0,0,0,0,0,0,0,0,0,0,0,0,0,0,0,
+        0,0,0,0,0,0,0,0,0,0,0,0,0,0,0,0,0,0,0,0,0,0,0,0,0,0,0,0,0,0,0,0,0,0,0,0,0,
+        0,0,0,0,0,0,0,0,0,0,0,0,0,0,0,0,0,0,0,0,0,0,0,0,0,0,0,0,0,0,0,0,0,0,0,0,0,
+        0,0,0,0,0,0,0,0,0,0,0,0,0,0,0,0,0,0,0,0,0,0,0,0,0,0,0,0,0,0,0,0,0,0,0,0,0,
+        0,0,0,0,0,0,0,0,0,0,0,0,0,0,0,0,0,0,0,0,0,0,0,0,0,0,0,0,0,0,0,0,0,0,0,0,0,
+		0,0,0,0,0,0,0,0,0,0,0,0,0,0,0,0,0,0,0,0,0,0,0,0,0,0,0,0,0,0,0,0,0,0,0,0,0,
+        0,0,0,0,0,0,0,0,0,0,0,0,0,0,0,0,0,0,0,0,0,0,0,0,0,0,0,0,0,0,0,0,0,0,0,0,0,
+        0,0,0,0,0,0,0,0,0,0,0,0,0,0,0,0,0,0,0,0,0,0,0,0,0,0,0,0,0,0,0,0,0,0,0,0,0,
+        0,0,0,0,0,0,0,0,0,0,0,0,0,0,0,0,0,0,0,0,0,0,0,0,0,0,0,0,0,0,0,0,0,0,0,0,0,
+        0,0,0,0,0,0,0,0,0,0,0,0,0,0,0,0,0,0,0,0,0,0,0,0,0,0,0,0,0,0,0,0,0,0,0,0,0,
+        0,0,0,0,0,0,0,0,0,0,0,0,0,0,0,0,0,0,0,0,0,0,0,0,0,0,0,0,0,0,0,0,0,0,0,0,0,
+        0,0,0,0,0,0,0,0,0,0,0,0,0,0,0,0,0,0,0,0,0,0,0,0,0,0,0,0,0,0,0,0,0,0,0,0,0,
+        0,0,0,0,0,0,0,0,0,0,0,0,0,0,0,0,0,0,0,0,0,0,0,0,0,0,0,0,0,0,0,0,0,0,0,0,0
     ]],
     getTile: function (layer, col, row) {
         return this.layers[layer][row * map.cols + col];

diff --git a/maps/no-scroll.html b/maps/no-scroll.html
@@ -34,7 +34,7 @@
 
 <div class="main-wrapper">
     <div id='d1' style="position:relative; top:0%; left:auto; z-index:1"> 
-        <canvas id="demo" width="3500" height="2900"></canvas>
+        <canvas id="demo" width="3700" height="2900"></canvas>
     </div>
 <!--
     <footer class="main-footer">
